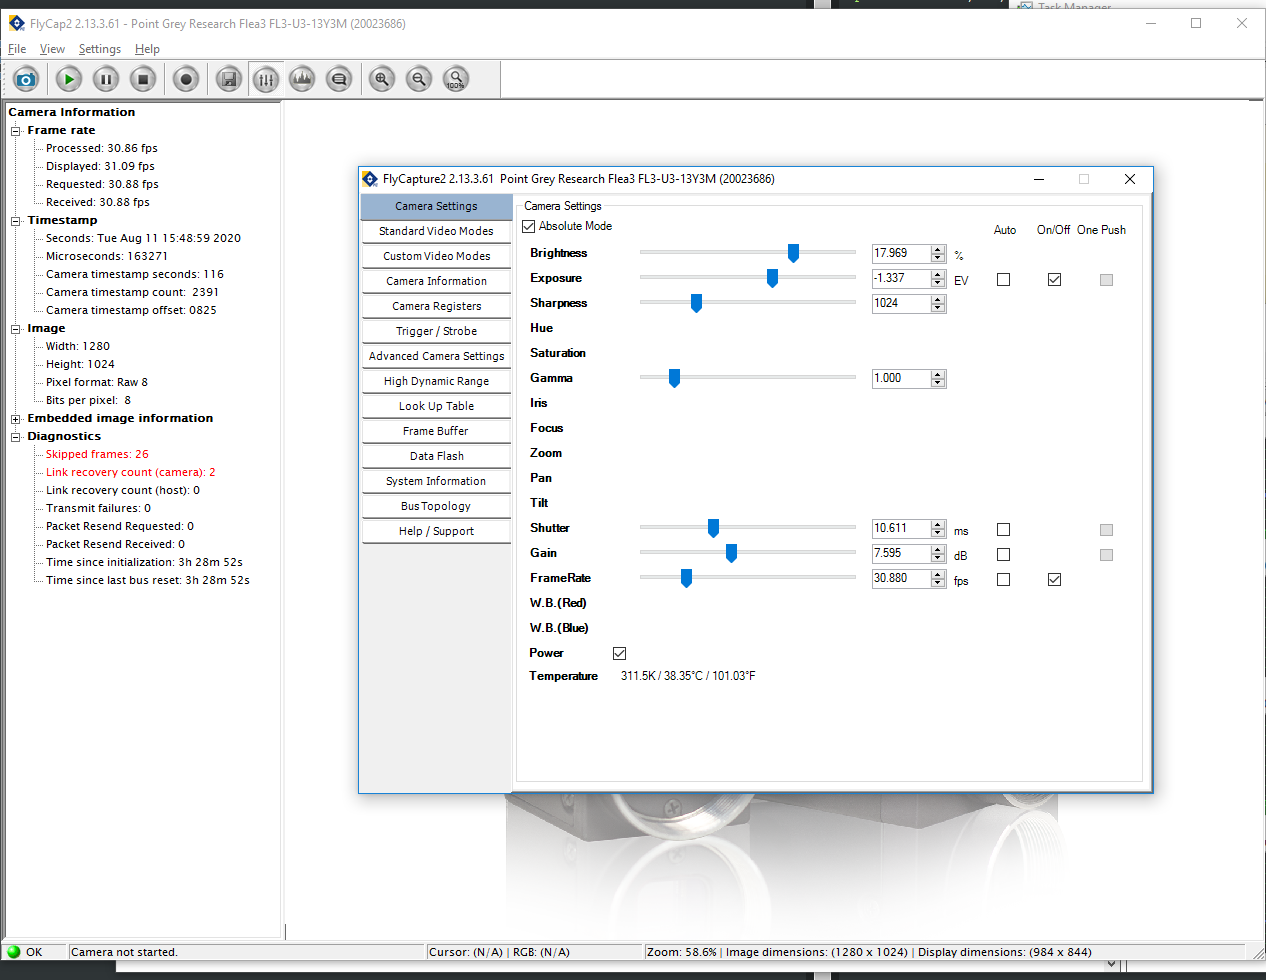
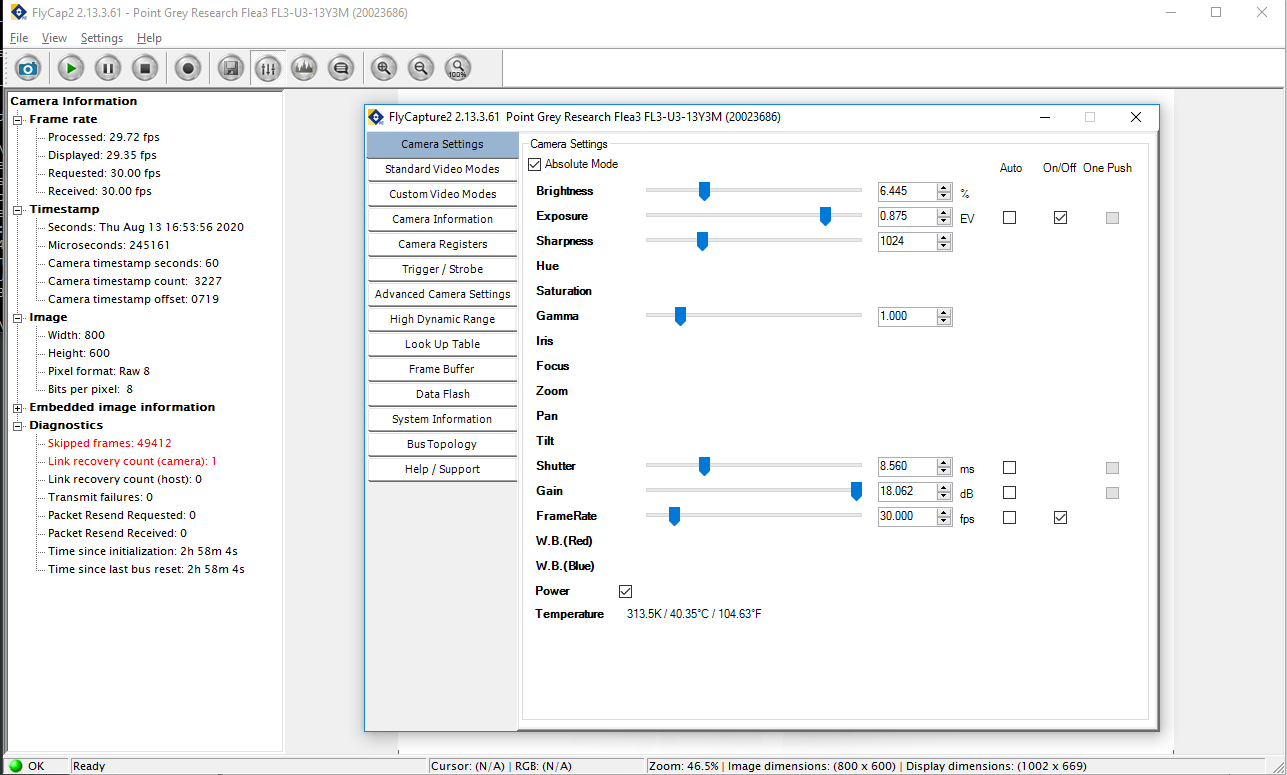
dealing with data folder setting

diff --git a/master/exp.py b/master/exp.py
@@ -18,6 +18,8 @@ from hardware_control.LogitechWebcam.preview import launch_RigView
 ## NASTY workaround to the error:
 # ** OMP: Error #15: Initializing libiomp5md.dll, but found libiomp5md.dll already initialized. **
 
+DFFN = os.path.join(pathlib.Path(__file__).resolve().parents[1], 'master', 'data-folder.json') # DATA-FOLDER-FILENAME
+
 class MasterWindow(QtWidgets.QMainWindow):
     
     def __init__(self, app,
@@ -28,6 +30,14 @@ class MasterWindow(QtWidgets.QMainWindow):
         
         self.protocol, self.protocol_folder = None, os.path.join('master', 'protocols')
         self.config, self.config_folder = None, os.path.join('master', 'configs')
+
+        # data folder
+        if not os.path.isfile(DFFN):
+            with open(DFFN, 'w') as fp:
+                json.dump({"folder":str(tempfile.gettempdir())}, fp)
+        with open(DFFN, 'r') as fp:
+            self.data_folder = json.load(fp)['folder']
+            
         self.get_protocol_list()
         self.get_config_list()
         self.experiment = {} # storing the specifics of an experiment
@@ -36,11 +46,12 @@ class MasterWindow(QtWidgets.QMainWindow):
         # self.camready_event = multiprocessing.Event() # to turn on and off recordings execute through multiprocessing.Process
 
         self.stim, self.init, self.setup, self.stop_flag = None, False, SETUP[0], False
+        self.FaceCamera_process = None
+        self.RigView_process = None
         self.params_window = None
-        self.data_folder = tempfile.gettempdir()
         
         self.setWindowTitle('Master Program -- Physiology of Visual Circuits')
-        self.setGeometry(50, 50, 500, 300)
+        self.setGeometry(50, 50, 500, 260)
 
         # buttons and functions
         LABELS = ["i) Initialize", "r) Run", "s) Stop", "q) Quit"]
@@ -84,35 +95,55 @@ class MasterWindow(QtWidgets.QMainWindow):
         self.dbtn.clicked.connect(self.set_config_folder)
         self.dbtn.move(370, 120)
 
-        LABELS = ["v) View Data", " a) Analyze Data"]
-        FUNCTIONS = [self.view_data, self.analyze_data]
+        self.dfl = QtWidgets.QLabel('Data-Folder (root): "%s"' % str(self.data_folder), self)
+        self.dfl.setMinimumWidth(300)
+        self.dfl.move(30, 160)
+        dfb = QtWidgets.QPushButton('Set folder', self)
+        dfb.clicked.connect(self.choose_data_folder)
+        dfb.move(350, 160)
+        
+        LABELS = ["Launch RigView", "v) View Data"]
+        FUNCTIONS = [self.rigview, self.view_data]
         for func, label, shift, size in zip(FUNCTIONS, LABELS,\
                                             160*np.arange(len(LABELS)), [130, 130]):
             btn = QtWidgets.QPushButton(label, self)
             btn.clicked.connect(func)
             btn.setMinimumWidth(size)
-            btn.move(shift, 180)
+            btn.move(shift+30, 200)
             action = QtWidgets.QAction(label, self)
             if len(label.split(')'))>0:
                 action.setShortcut(label.split(')')[0])
                 action.triggered.connect(func)
                 self.fileMenu.addAction(action)
 
-        self.statusBar.showMessage('Launching Rig view [...]')
         self.show()
-
-        ## Camera initialisation ...
+        # self.facecamera_init()
+        
+    def facecamera_init(self):
+        if self.FaceCamera_process is not None:
+            self.FaceCamera_process.terminate()
         self.FaceCamera_process = multiprocessing.Process(target=launch_FaceCamera,
-                                                          args=(self.run_event , self.quit_event,self.data_folder))
+                                                          args=(self.run_event , self.quit_event, self.data_folder))
         self.FaceCamera_process.start()
-        self.RigView_process = multiprocessing.Process(target=launch_RigView,
-                                                          args=(self.run_event , self.quit_event,self.data_folder))
-        self.RigView_process.start()
         self.statusBar.showMessage('Initializing Camera streams [...]')
+        time.sleep(6)
+        self.statusBar.showMessage('Setup ready !')
+            
+    def choose_data_folder(self):
+        fd = str(QtWidgets.QFileDialog.getExistingDirectory(self,
+                                                            "Select Root Data Folder", self.data_folder))
+        if os.path.isdir(fd):
+            self.data_folder = fd
+            with open(DFFN, 'w') as fp:
+                json.dump({"folder":self.data_folder}, fp)
+            self.dfl.setText('Data-Folder (root): "%s"' % str(self.data_folder))
+        else:
+            self.statusBar.showMessage('Invalid folder -> folder unchanged')
 
+            
     def analyze_data(self):
         self.statusBar.showMessage('Analyzing last recording [...]')
-        data, fig1 = quick_data_view(last_datafile(tempfile.gettempdir()), realign=True)
+        data, fig1 = quick_data_view(last_datafile(self.data_folder), realign=True)
         _, fig2 = analyze_data(data=data)
         fig1.show()
         fig2.show()
@@ -120,6 +151,16 @@ class MasterWindow(QtWidgets.QMainWindow):
     def view_data(self):
         _, fig = quick_data_view(last_datafile(self.data_folder))
         fig.show()
+
+    def rigview(self):
+        if self.RigView_process is not None:
+            self.RigView_process.terminate()
+        self.statusBar.showMessage('Initializing RigView stream [...]')
+        self.RigView_process = multiprocessing.Process(target=launch_RigView,
+                                                       args=(self.run_event , self.quit_event, self.data_folder))
+        self.RigView_process.start()
+        time.sleep(5)
+        self.statusBar.showMessage('Setup ready')
         
     def initialize(self):
         try:

diff --git a/behavioral_monitoring/README.md b/behavioral_monitoring/README.md
@@ -6,6 +6,7 @@
 
 Use the FlyCap software provided by *PT-Grey Camera* to set the acquisition frequency, gain, brightness, etc... that best suits the experiment.
 
+*(current settings below)*
 <p align="center">
   <img src="../doc/FlyCap-software.png"/>
 </p>
